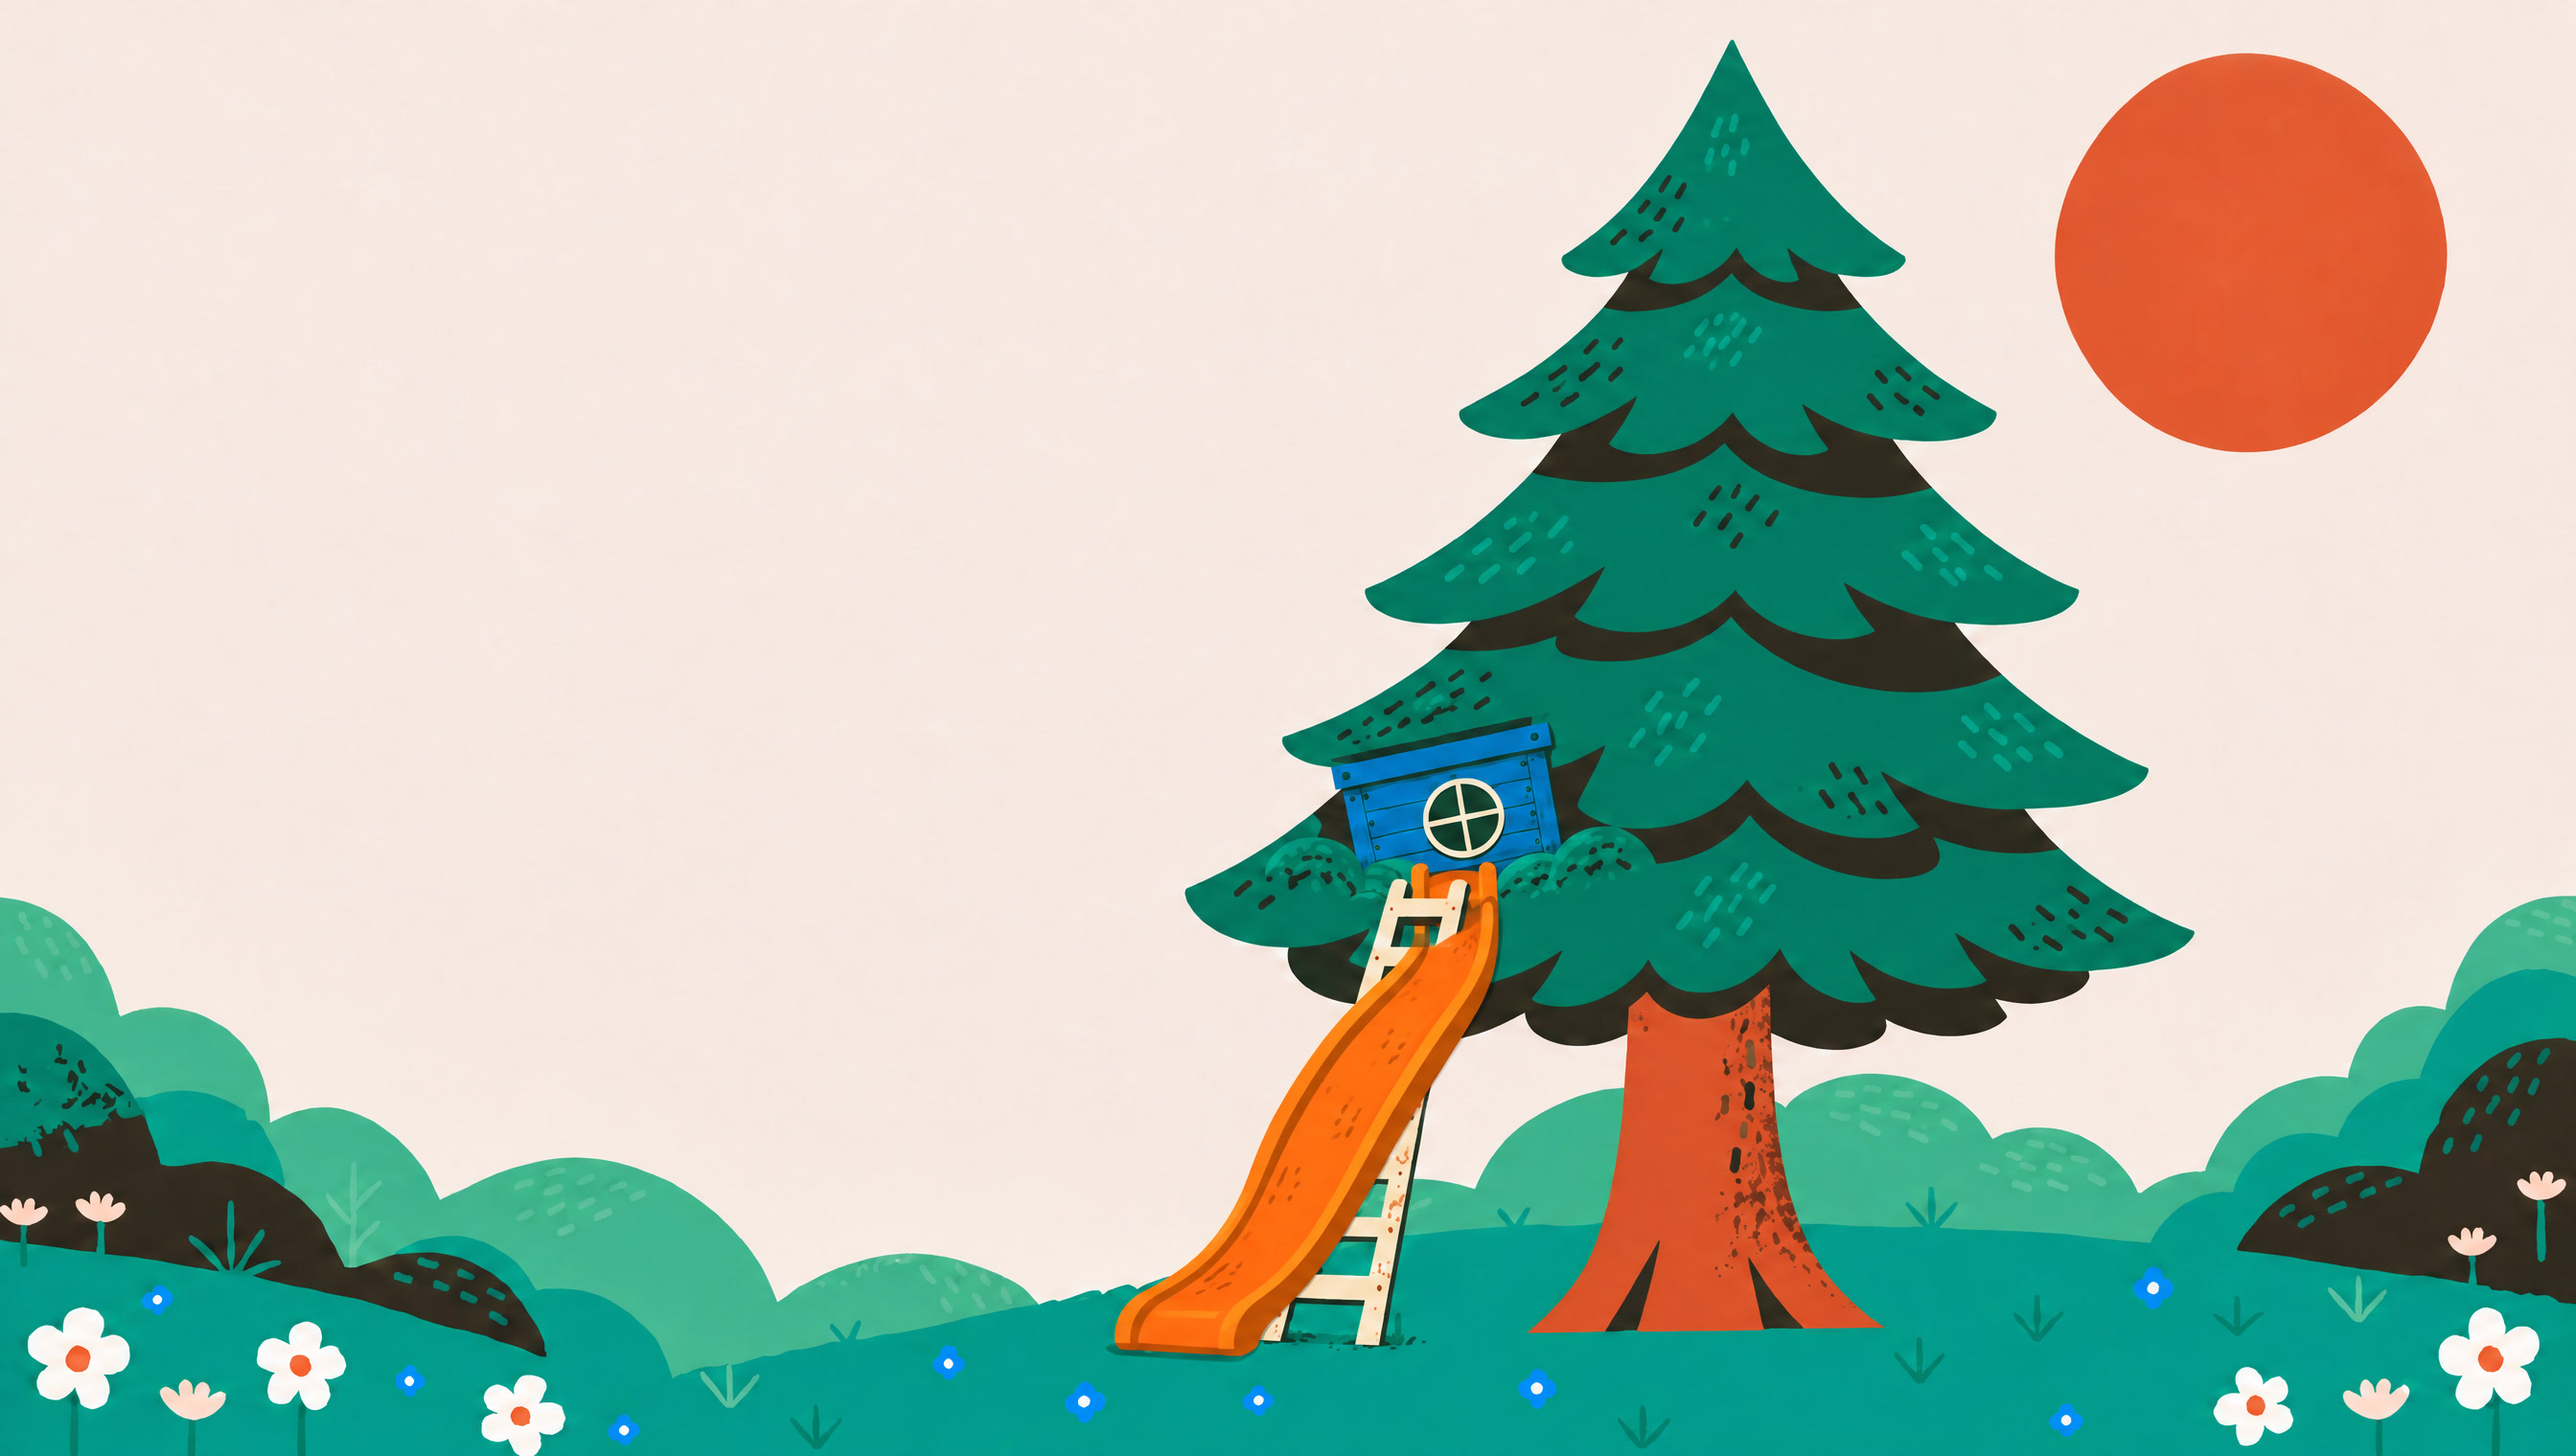
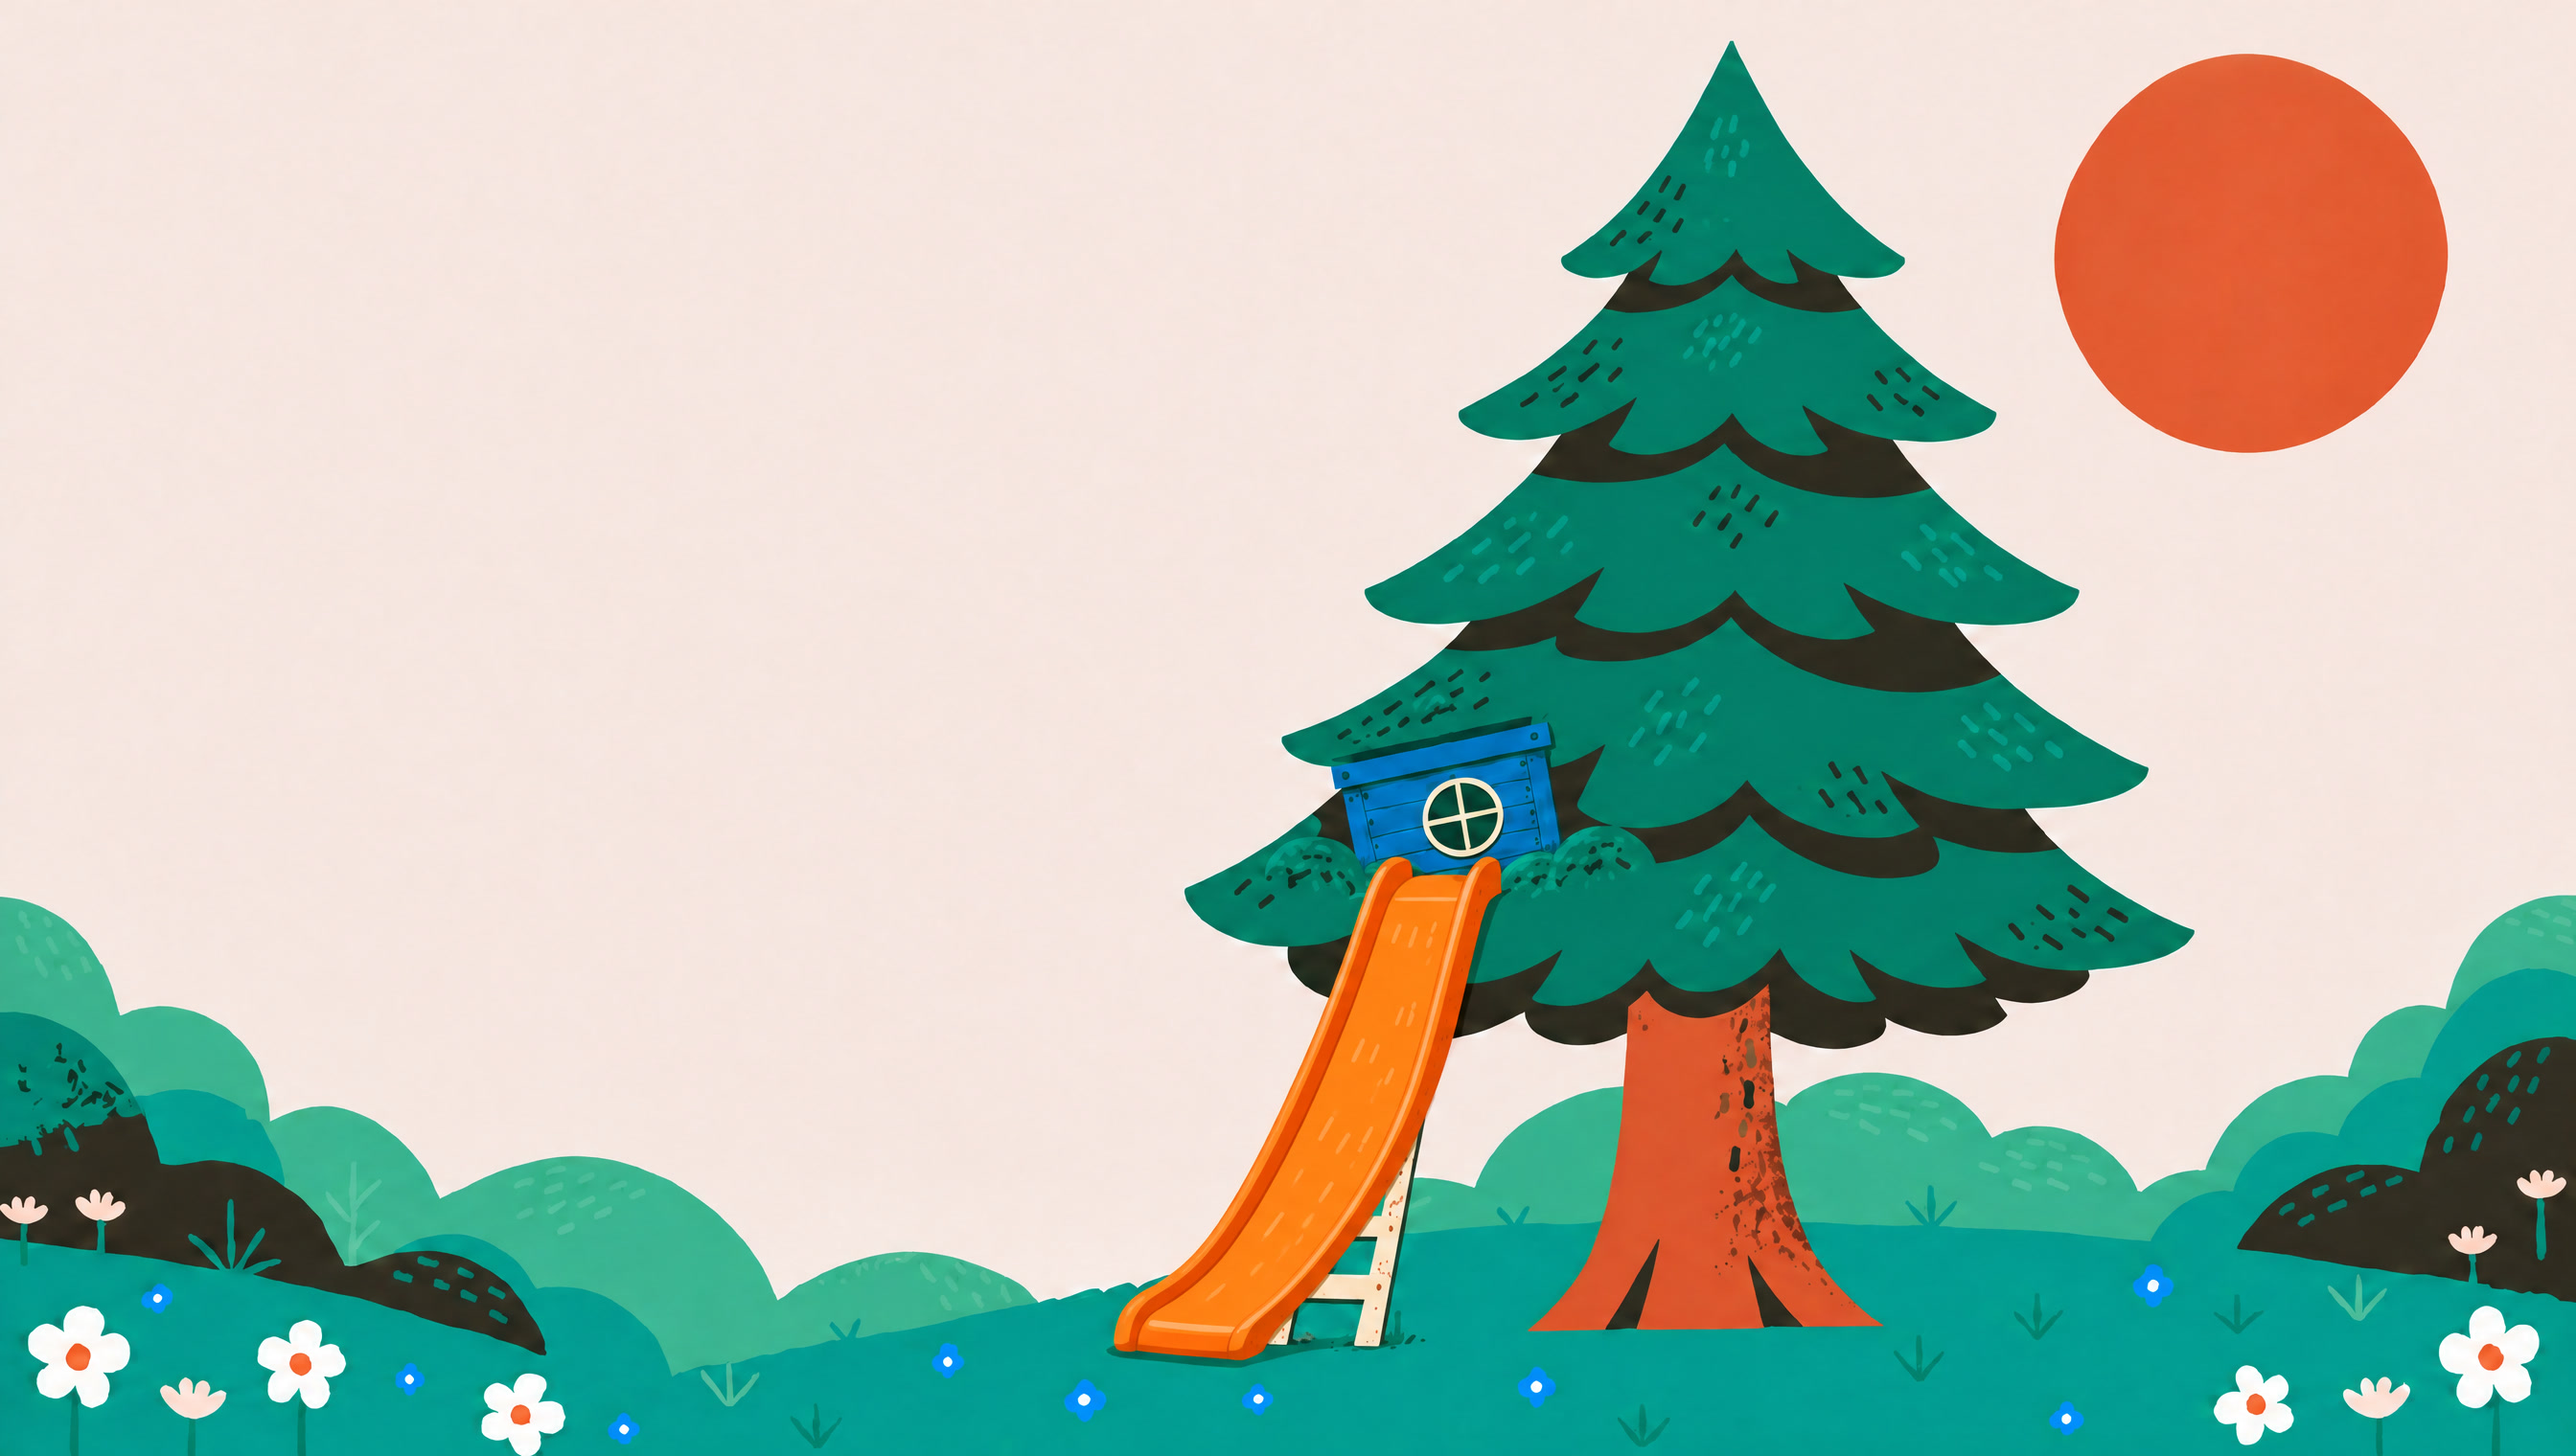
Retake design pictures 4 and 5 to the maintainer's note on the slide
Claude-Session: https://claude.ai/code/session_01HWRLNP4zRgNHV44X9u2tkQ

diff --git a/docs/video/intro/design.md b/docs/video/intro/design.md
@@ -7,15 +7,15 @@ Stage 4 of [the process](../process.md), 2026-11-14; waits for the maintainer's 
 | `01-hill.jpg` | 1, start of 8 | The master, treehouse removed | `8450ff23-e0c5-453e-97a6-3d8c4e65ac51` | `3c62bc3f-bddc-4237-8981-2062d706da5b` |
 | `02-box.jpg` | 2 | 01, a box added high in the tree | `43d6e2ff-2eb0-4d5a-910c-fad53de5ccb8` | `4264926e-cf83-43d7-89ce-094572b04d0c` |
 | `03-pine.jpg` | 3 | 02, the tree a pine, the box moved, a ladder | `1f8ae0dc-6922-41a7-9e7f-28aec06d7f49` | `667e8137-8e1b-4b35-b02c-d8110e39be17` |
-| `04-slide-on-ladder.jpg` | 4, 5 | 03, a slide across the ladder | `6cc9c2b6-0828-45ae-b0c1-136697f3519c` | `d01c90c7-9453-4356-8011-5ad28a99d283`; and two that hid the ladder, `4cc4d401-e006-4dc3-9d43-a0a2fa93a182`, `e11de493-78b1-4603-bf13-4c3de0e27f87` |
-| `05-second-box.jpg` | 6 | 04, a second box | `0c4ce00e-5dbc-4771-865d-c1e678613236` | `61dbb629-6a12-4b53-a385-bd83a0065091` |
+| `04-slide-on-ladder.jpg` | 4, 5 | 03, then the maintainer's note: the top of the slide covers the top of the ladder, and the ladder's foot pokes out from behind the slide's base | `11f2280b-889e-426a-8a17-315464f7361c` | `33c409d4-557d-4706-a58e-0153f4323cb6`, `27538294-b01a-4cfd-ad41-c22fdcf8a214`; earlier, `6cc9c2b6-0828-45ae-b0c1-136697f3519c` (the slide across the ladder) and `d01c90c7-9453-4356-8011-5ad28a99d283`, and two that hid the ladder, `4cc4d401-e006-4dc3-9d43-a0a2fa93a182`, `e11de493-78b1-4603-bf13-4c3de0e27f87` |
+| `05-second-box.jpg` | 6 | 04 as revised, a second box | `d4c2b39e-0236-40ea-8e09-8799c2be252b` | `d461b3ba-2fca-4c8e-8844-c4db24ccc7bc`; from the earlier 04, `0c4ce00e-5dbc-4771-865d-c1e678613236`, `61dbb629-6a12-4b53-a385-bd83a0065091` |
 | `06-sketch.jpg` | 8 | 01 and 07, a pencil sketch of the treehouse | `fc269f15-72dc-42b1-8448-dafec19d0f90` | `2c55c42e-7c06-4ab2-b3bd-ad8b5d79ced4` |
 | `07-bare-pole.jpg` | 8 | The master, slide and flag removed | `250694c6-709a-4456-9db3-2451de952700` | `b9d3c6c5-9703-41ec-89ef-4a8165b1513d` |
 | `08-flag.jpg` | 9, 10 | 07, the flag added | `ad84a61b-6fd5-42e6-8ddb-2b0290c85879` | `6fbda81d-8a4b-451d-8d72-91858f503faf`; and one edited from the master, whose railing changed colour, `a5fdd6f4-ffae-438b-9459-b7ab37ea8030` |
 | `09-slide.jpg` | 11 | 08, the master's slide added | `85d4114f-0da6-4f2c-b98d-c44a888666ba` | `b76746dc-5630-42ac-956b-96a3d3b47eaf` |
 | `10-village.jpg` | 12 | The master and four designs (see the README) | `39c12b84-59e1-4bb5-916b-fc7838046916` | `69a1a920-e3e0-4cdd-a792-9f3cdcabc40e` |
 
-This stage cost 57.75 credits (21 takes); 208.25 have been spent on the film.
+The maintainer's note on 04 (2026-11-14): "it works best if the top of the slide completely obscures the top of ladder ... but the ladder pokes out from behind the base". 04 and 05 were retaken to it. This stage cost 71.5 credits (26 takes); 222 have been spent on the film.
 
 What the code adds, not the pictures: the grey of beats 2 to 6 with the slide kept in colour, the bubbles and headings, the new-session divider, the turn, the decisions card, and the end card.
 
@@ -23,6 +23,6 @@ Checks from the process, by the session:
 
 - **One world:** every picture shares the hill, the bushes, the flowers, and the sun. The round tree in 01, 02, and 06 is fuller than the master's, whose middle is dark; the change happens when the treehouse is built over the sketch.
 - **Continuity:** 07, 08, and 09 differ by one thing each, so the flag going up and the slide arriving change nothing else.
-- **Things connect:** the ladders reach the grass; the slide in 04 lies across the ladder with rungs showing above and below it; the slide in 09 ends on grass.
+- **Things connect:** the ladders reach the grass; the slide in 04 covers the top of the ladder, whose foot shows below the slide; the slide in 09 ends on grass.
 - **Room for words:** the left half of every picture is open sky and hill.
 - **Open:** the box in 02 is small and high; the film may need to push in on it.
